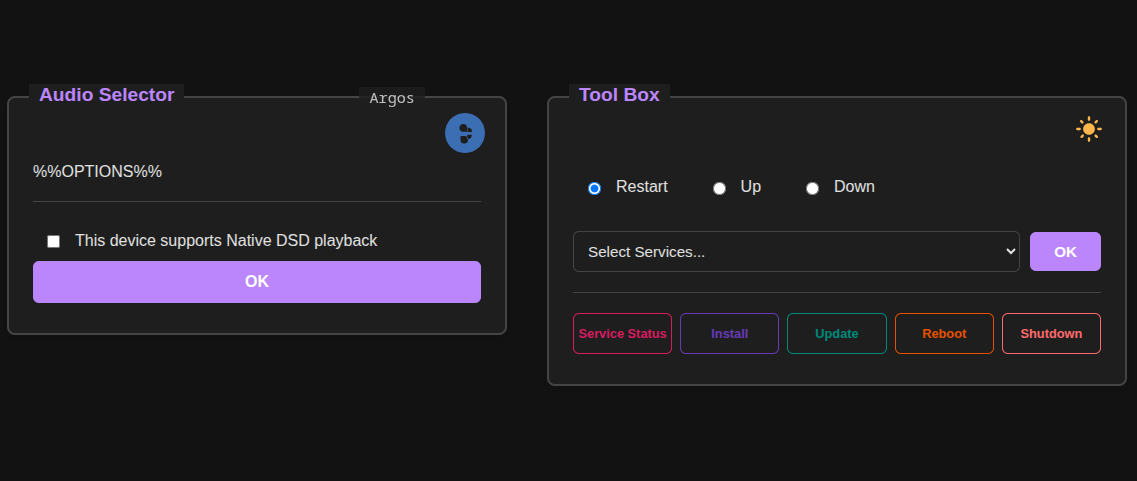
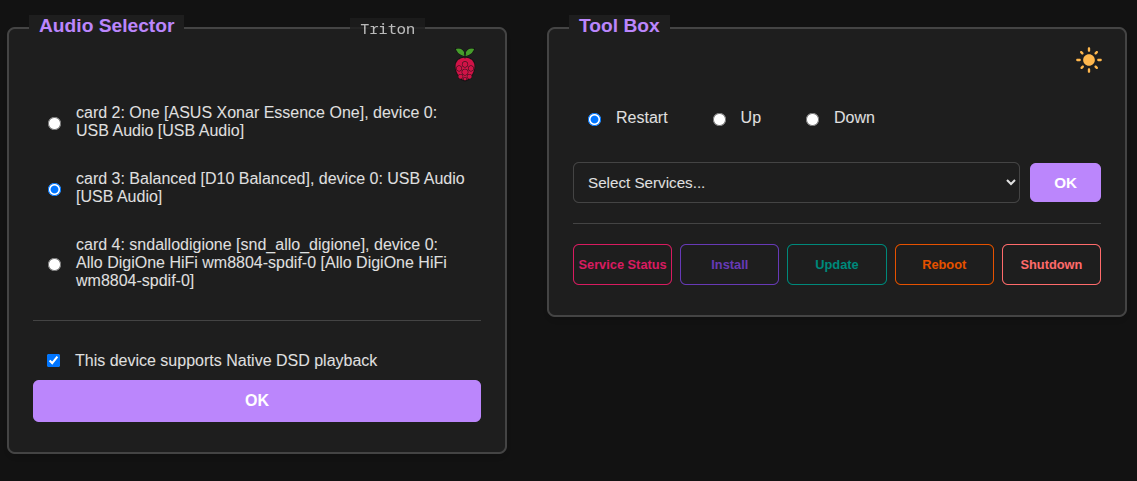
added documentation on funtions

diff --git a/README.md b/README.md
@@ -154,6 +154,44 @@ http://ipaddr:8080
 
 You can change the <b>PORT</b> on which <b>audio-selector</b> runs by editing <u>/service/audio-selector/variables/PORT</u> and restarting the <b>audio-selector</b> service. To restart <b>audio-selector</b> run the command `sudo svc -r /service/audio-selector`.
 
+# Feature List
+
+1. Select Audio Device. The audio selector presents you a list of ALSA devices. You can chose one of the device. If the device supports native DSD, check the box for DSD
+
+2. Service Status - This button when clicked shows you the current state of supervise services. Services that are down are shown at the top with decreasing order of downtime. Service which are up are shown next with increasing order of uptime
+
+3. Install - This button when clicked will ask you to upload a csv file. The installer reads this file and installs software as specfied in the csv list
+
+4. Update - This button when clicked performs system update of your system
+
+5. Reboot - This button when clicked runs the `reboot` command
+
+6. Shutdown - This buttron when clicked runs the `shutdown -h now` command.
+
+## Format for the CSV File for Install
+
+Each field needs to be a comma separated line
+
+<b>`ID-VERSION_ID,BINARY_PATH,Package,systemd-service,supervise_create_script`</b>
+
+Here ID and VERSION_ID comes from the file /etc/os-release. Let us say you want to install librespot for Trixie. The entry would be
+
+<b>`debian-13,/usr/bin/librespot,librespot,librespot.service,/usr/lib/audio_selector/create_service --librespot`</b>
+
+The table below shows the values for Fedora, Debian Trixie and Ubuntu Resolute Racoon
+
+ID-VERSION_ID|BINARY_PATH|Package|systemd_service|supervise_create_script
+-------------|-----------|-------|---------------|-----------------------
+fedora-44|/usr/bin/librespot|librespot|librespot.service|/usr/lib/audio_selector/create_service --librespot
+debian-13|/usr/bin/librespot|librespot|librespot.service|/usr/lib/audio_selector/create_service --librespot
+ubuntu-26.04|/usr/bin/librespot|librespot|librespot.service|/usr/lib/audio_selector/create_service --librespot
+fedora-44|/usr/bin/shairport-sync|shairport-sync|shairport-sync.service|/usr/lib/audio_selector/create_service --shairport-sync
+debian-13|/usr/bin/shairport-sync|shairport-sync|shairport-sync.service|/usr/lib/audio_selector/create_service --shairport-sync
+ubuntu-26.04|/usr/bin/shairport-sync|shairport-sync|shairport-sync.service|/usr/lib/audio_selector/create_service --shairport-sync
+fedora-44|/usr/bin/squeezelite|squeezelite|squeezelite.service|/usr/lib/audio_selector/create_service --squeezelite
+debian-13|/usr/bin/squeezelite|squeezelite|squeezelite.service|/usr/lib/audio_selector/create_service --squeezelite
+ubuntu-26.04|/usr/bin/squeezelite|squeezelite|squeezelite.service|/usr/lib/audio_selector/create_service --squeezelite
+
 # Notes
 
 1. This project has been created with the help of google AI. My own knowledge of writing web based applications is zero.
